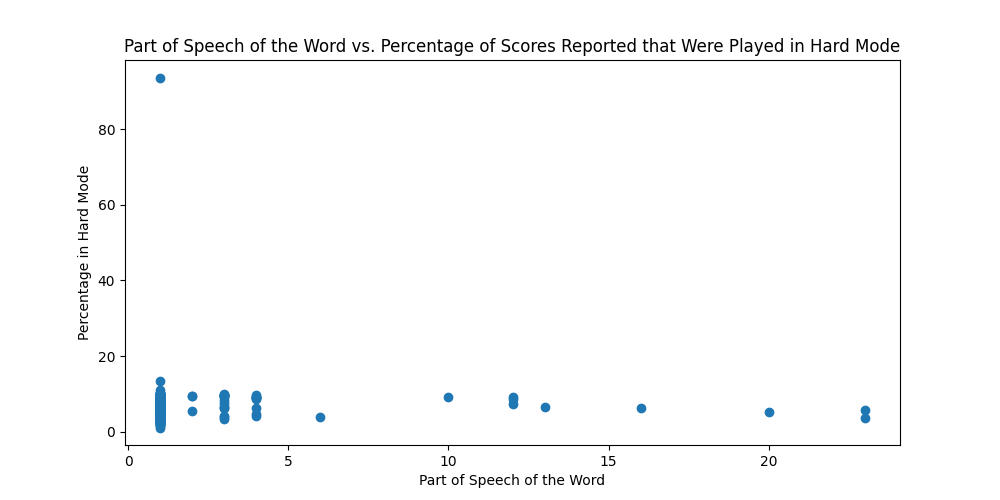
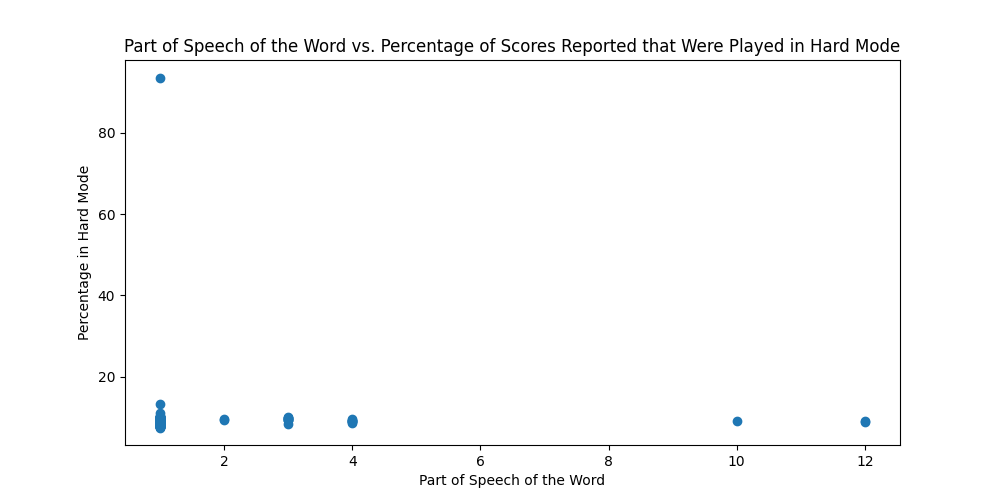
Fifth

diff --git a/quick.py b/quick.py
@@ -71,6 +71,9 @@ df['Date'] = pd.to_datetime(df['Date'])
 # 4.2. Create a new column with the number of days since the first date
 df['Days'] = (df['Date'] - df['Date'].min()).dt.days
 
+# Cut off the first 5 months of data
+df = df[df['Days'] > 150]
+
 
 # 5. Data visualization
 # 5.1. Plot the number of reported results over time
@@ -383,6 +386,37 @@ max    60247.233967  14157.406640  ... -18899.320218  139393.788152
 
 [8 rows x 6 columns]
 """
+
+print("PREDICTIONS ON MARCH 1")
+# Give be exact prediction interval at the last day of the data
+print(model.get_prediction(df2['Days']).summary_frame(alpha=0.05).tail(1))
+# And Explain the results
+print(model.get_prediction(df2['Days']).summary_frame(alpha=0.05).tail(1).describe())
+
+# Plot the predictions interval on the data
+# Plot dfk
+dfk = pd.DataFrame({'Days': range(df['Days'].min() + 1, df['Days'].max() + 1 + 30)})
+dfk['res'] = model.predict(dfk['Days'])
+
+# Make sure lower and upper bounds are not negative
+# dfk['res'] = dfk['res'].apply(lambda x: 0 if x < 0 else x)
+fig, ax = plt.subplots(figsize=(10, 6))
+ax.plot(dfk['Days'], dfk['res'], 'o', label='data')
+# ax.plot(dfk['Days'], model., 'r--.', label='OLS')
+ax.plot(dfk['Days'], model.predict(dfk['Days']), 'g', label='Predictions')
+# ax.plot(dfk['Days'], model.get_prediction(dfk['Days']).summary_frame(alpha=0.05)['obs_ci_lower'], 'r--', label='Predictions') # Remove the negative values from the lower bound
+
+ax.plot(dfk['Days'], model.get_prediction(dfk['Days']).summary_frame(alpha=0.05)['obs_ci_upper'], 'r--', label='Prediction Interval')
+ax.set_xlabel('Days')
+ax.set_ylabel('Number of Cases')
+ax.legend(loc='best')
+plt.savefig('prediction.png')
+plt.show()
+
+
+
+
+
 
 # 8 Do any attributes of the word affect the percentage of scores reported that were played in Hard Mode?
 
